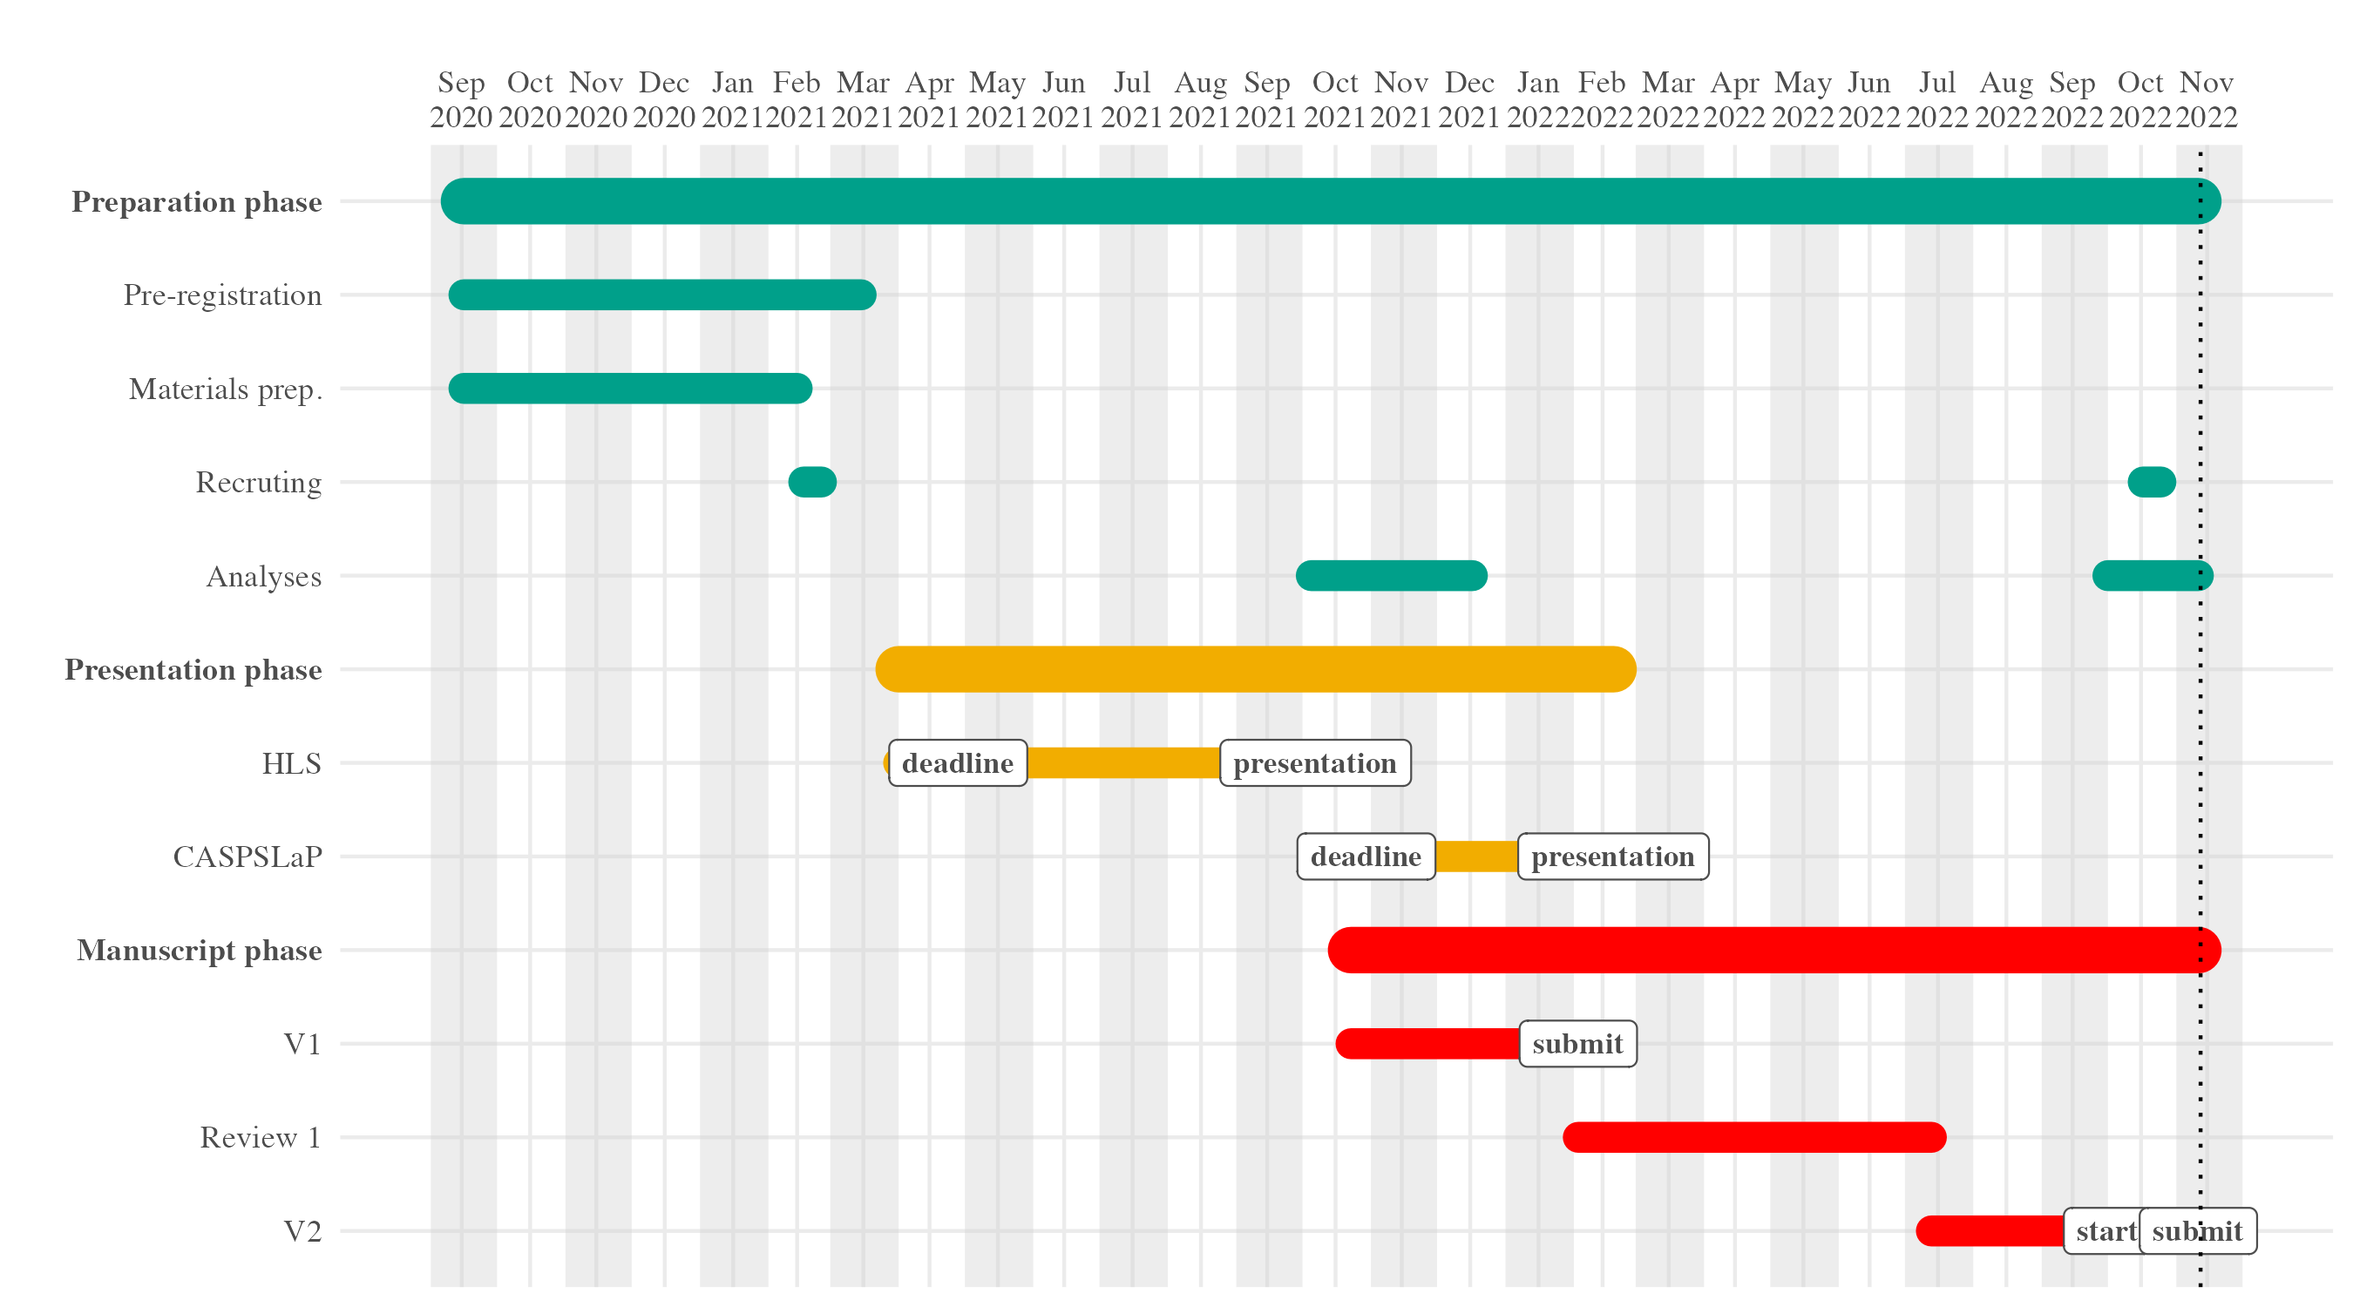
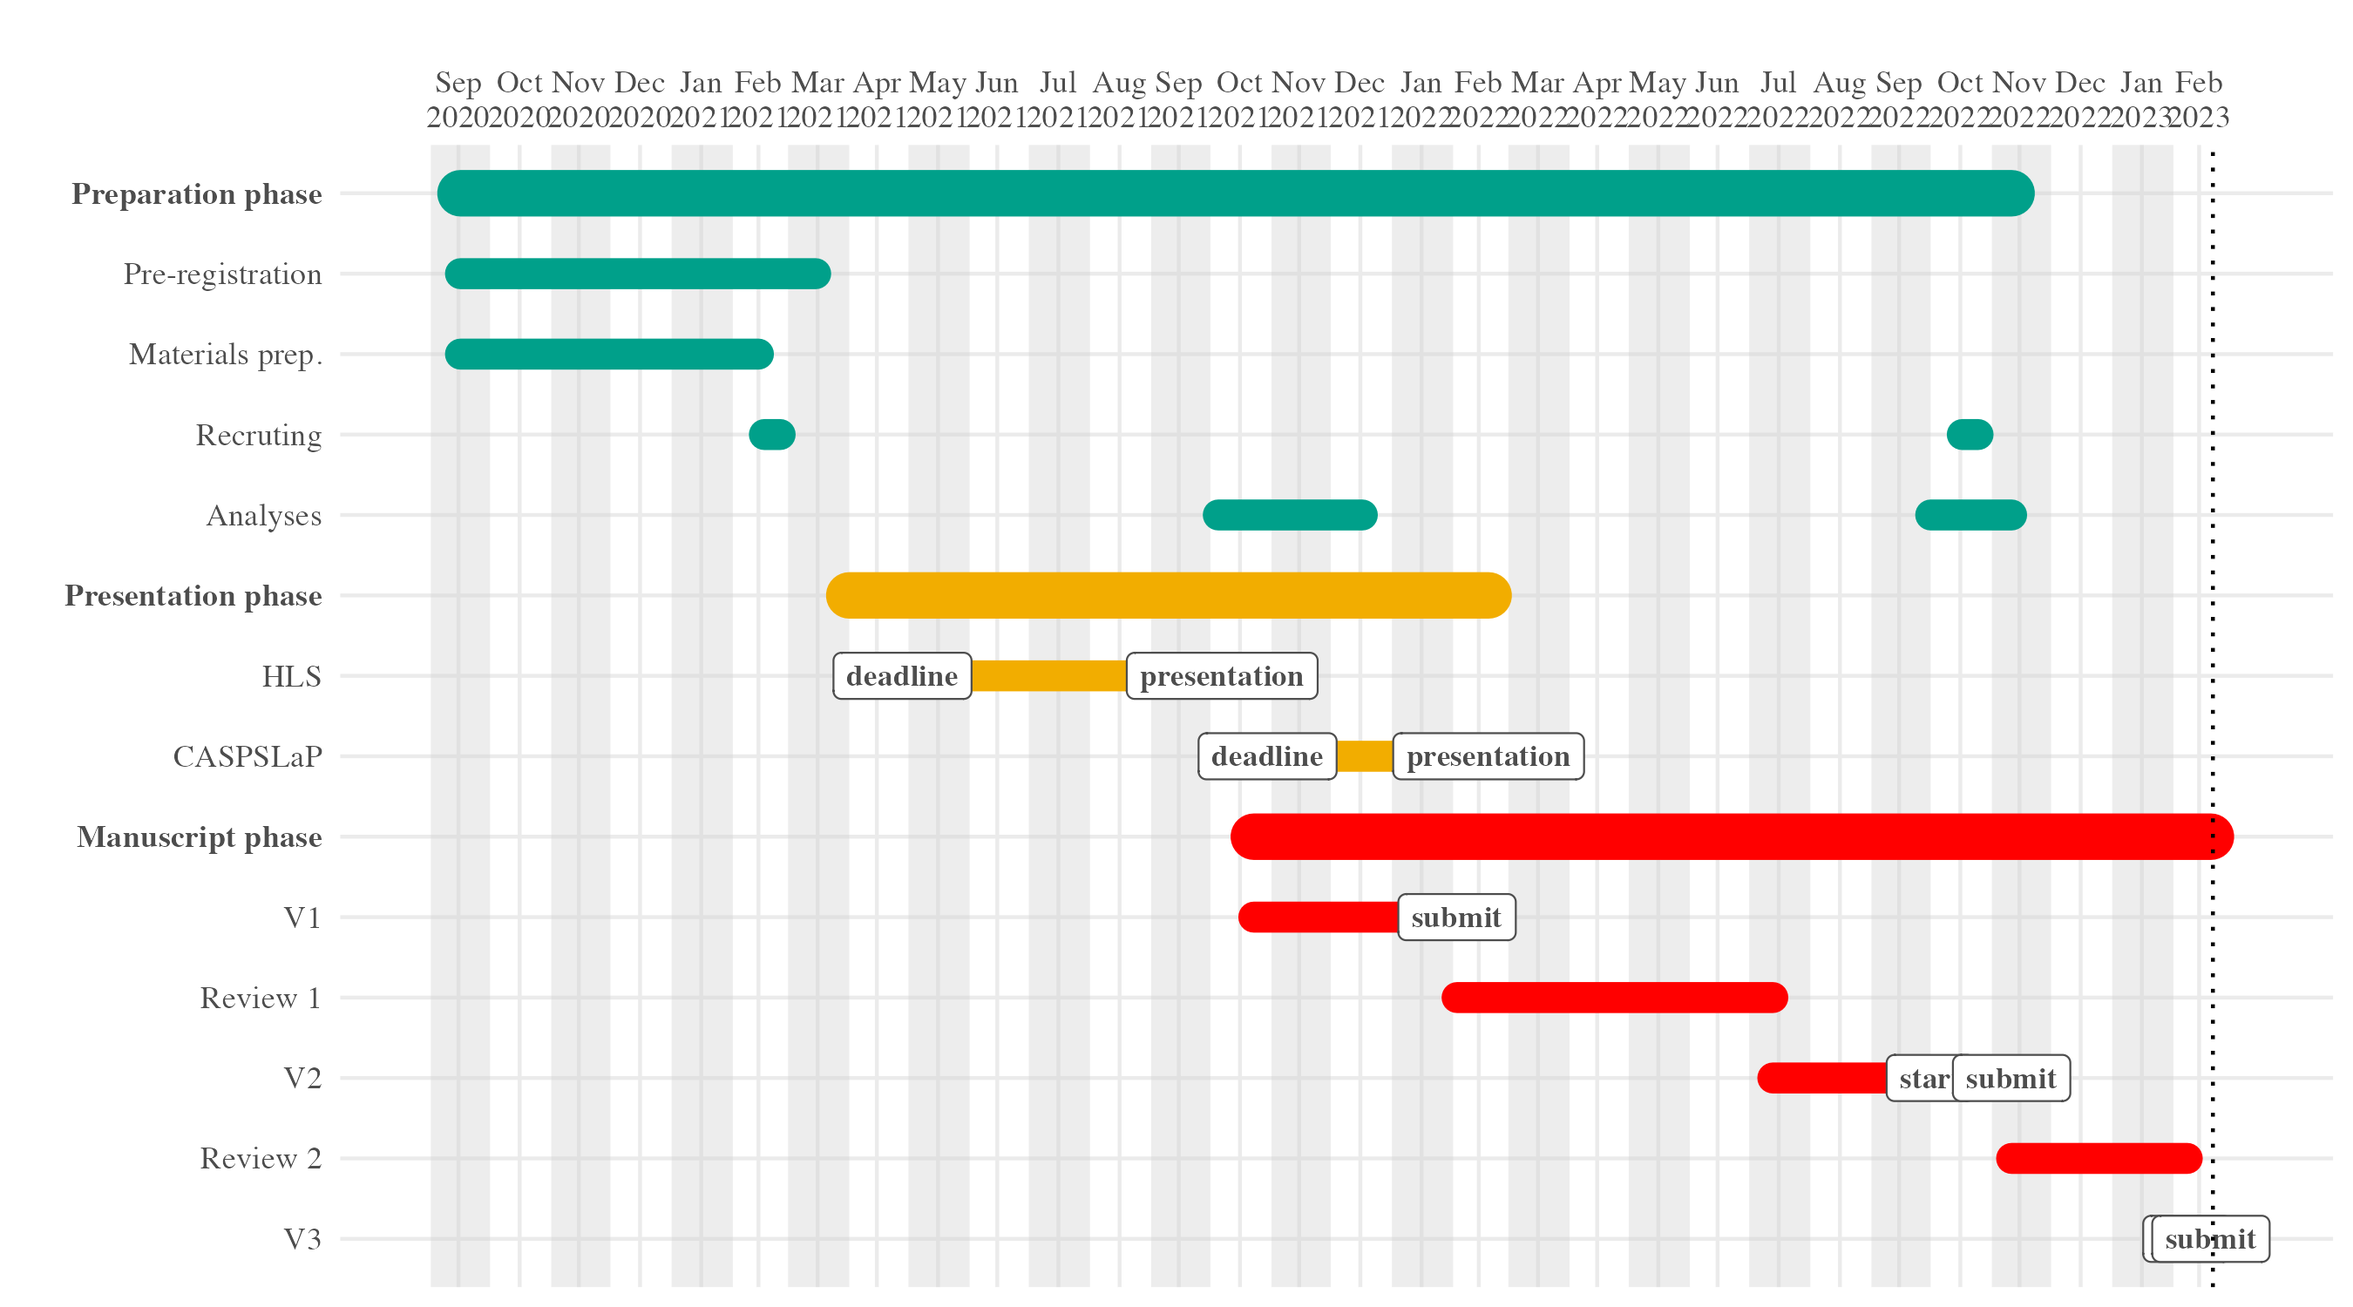
update readmes and project timeline

diff --git a/figs/README.md b/figs/README.md
@@ -5,11 +5,118 @@
     ├── README.Rmd
     ├── README.md
     ├── abstract
+    │   └── plot_abstract_hls.png
     ├── manuscript
+    │   ├── ddm_explanation.pdf
+    │   ├── ddm_explanation.png
+    │   ├── ddm_simulations.pdf
+    │   ├── ddm_simulations.png
+    │   ├── learner_accuracy_3way.pdf
+    │   ├── learner_accuracy_3way.png
+    │   ├── learner_accuracy_forest_utterance_type.pdf
+    │   ├── learner_accuracy_forest_utterance_type.png
+    │   ├── learner_accuracy_lt_eq_by_utterance_type.pdf
+    │   ├── learner_accuracy_lt_eq_by_utterance_type.png
+    │   ├── learner_accuracy_rt_by_speaker_variety.pdf
+    │   ├── learner_accuracy_rt_by_speaker_variety.png
+    │   ├── learner_dp_utterance_variety.pdf
+    │   ├── learner_dp_utterance_variety.png
+    │   ├── learner_native_accuracy.pdf
+    │   ├── learner_native_accuracy.png
+    │   ├── learner_native_caribbean_accuracy.pdf
+    │   ├── learner_native_caribbean_accuracy.png
+    │   ├── learner_variety_familiarity.pdf
+    │   ├── learner_variety_familiarity.png
+    │   ├── mem_bs_dr_estimates.pdf
+    │   ├── mem_bs_dr_estimates.png
+    │   ├── native_variety_matched_accuracy.pdf
+    │   ├── native_variety_matched_accuracy.png
+    │   ├── sm_random_speaker_check.pdf
+    │   ├── sm_random_speaker_check.png
+    │   ├── sm_speech_rate.pdf
+    │   ├── sm_speech_rate.png
+    │   ├── stimuli_pitch_contours.pdf
+    │   └── stimuli_pitch_contours.png
     ├── poster
+    │   ├── learner_accuracy_by_lextale.pdf
+    │   ├── learner_accuracy_by_speaker_variety.pdf
+    │   ├── learner_accuracy_by_st_eq.pdf
+    │   └── learner_accuracy_by_utterance_type.pdf
     ├── project_contributors.pdf
     ├── project_contributors.png
     ├── project_timeline.pdf
     ├── project_timeline.png
     ├── slides
+    │   ├── ddm_simulations0.png
+    │   ├── ddm_simulations1.png
+    │   ├── ddm_simulations2.png
+    │   ├── ddm_simulations3.png
+    │   ├── ddm_simulations4.png
+    │   ├── empathy_combine_1.png
+    │   ├── empathy_combine_2.png
+    │   ├── empathy_utterance_type_combine.png
+    │   ├── learner_accuracy_3way1.png
+    │   ├── learner_accuracy_3way2.png
+    │   ├── learner_accuracy_by_speaker_variety.png
+    │   ├── learner_accuracy_by_utterance_type.png
+    │   ├── learner_accuracy_lt_eq_by_utterance_type1.png
+    │   ├── learner_accuracy_lt_eq_by_utterance_type2.png
+    │   ├── learner_accuracy_rt_by_speaker_variety1.png
+    │   ├── learner_accuracy_rt_by_speaker_variety2.png
+    │   ├── lextale_combine_1.png
+    │   ├── lextale_combine_2.png
+    │   ├── lextale_utterance_type_combine.png
+    │   ├── lt_eq_3way_ce.png
+    │   ├── lt_eq_3way_ce_1.png
+    │   ├── mem_bs_dr_estimates.png
+    │   ├── random_speaker_check.png
+    │   └── speech_rate.png
     └── stimuli
+        ├── andalusian_match_declarative-broad-focus_Ana-lleva-el-abrigo.png
+        ├── andalusian_match_declarative-narrow-focus_Ana-lleva-el-abrigo.png
+        ├── andalusian_match_interrogative-partial-wh_Cuando-lleva-el-abrigo.png
+        ├── andalusian_match_interrogative-total-yn_Ana-lleva-el-abrigo.png
+        ├── argentine_match_declarative-broad-focus_Ana-lleva-el-abrigo.png
+        ├── argentine_match_declarative-narrow-focus_Ana-lleva-el-abrigo.png
+        ├── argentine_match_interrogative-partial-wh_Cuando-lleva-el-abrigo.png
+        ├── argentine_match_interrogative-total-yn_Ana-lleva-el-abrigo.png
+        ├── castilian_match_declarative-broad-focus_Ana-lleva-el-abrigo.png
+        ├── castilian_match_declarative-narrow-focus_Ana-lleva-el-abrigo.png
+        ├── castilian_match_interrogative-partial-wh_Cuando-lleva-el-abrigo.png
+        ├── castilian_match_interrogative-total-yn_Ana-lleva-el-abrigo.png
+        ├── chilean_match_declarative-broad-focus_Ana-lleva-el-abrigo.png
+        ├── chilean_match_declarative-narrow-focus_Ana-lleva-el-abrigo.png
+        ├── chilean_match_interrogative-partial-wh_Cuando-lleva-el-abrigo.png
+        ├── chilean_match_interrogative-total-yn_Ana-lleva-el-abrigo.png
+        ├── cuban_match_declarative-broad-focus_Ana-lleva-el-abrigo.png
+        ├── cuban_match_declarative-narrow-focus_Ana-lleva-el-abrigo.png
+        ├── cuban_match_interrogative-partial-wh_Cuando-lleva-el-abrigo.png
+        ├── cuban_match_interrogative-total-yn_Ana-lleva-el-abrigo.png
+        ├── mexican_match_declarative-broad-focus_Ana-lleva-el-abrigo.png
+        ├── mexican_match_declarative-narrow-focus_Ana-lleva-el-abrigo.png
+        ├── mexican_match_interrogative-partial-wh_Cuando-lleva-el-abrigo.png
+        ├── mexican_match_interrogative-total-yn_Ana-lleva-el-abrigo.png
+        ├── peruvian_match_declarative-broad-focus_Ana-lleva-el-abrigo.png
+        ├── peruvian_match_declarative-narrow-focus_Ana-lleva-el-abrigo.png
+        ├── peruvian_match_interrogative-partial-wh_Cuando-lleva-el-abrigo.png
+        ├── peruvian_match_interrogative-total-yn_Ana-lleva-el-abrigo.png
+        ├── puertorican_match_declarative-broad-focus_Ana-lleva-el-abrigo.png
+        ├── puertorican_match_declarative-narrow-focus_Ana-lleva-el-abrigo.png
+        ├── puertorican_match_interrogative-partial-wh_Cuando-lleva-el-abrigo.png
+        ├── puertorican_match_interrogative-total-yn_Ana-lleva-el-abrigo.png
+        ├── spectrogram_andalusian.pdf
+        ├── spectrogram_andalusian.png
+        ├── spectrogram_argentine.pdf
+        ├── spectrogram_argentine.png
+        ├── spectrogram_castilian.pdf
+        ├── spectrogram_castilian.png
+        ├── spectrogram_chilean.pdf
+        ├── spectrogram_chilean.png
+        ├── spectrogram_cuban.pdf
+        ├── spectrogram_cuban.png
+        ├── spectrogram_mexican.pdf
+        ├── spectrogram_mexican.png
+        ├── spectrogram_peruvian.pdf
+        ├── spectrogram_peruvian.png
+        ├── spectrogram_puertorican.pdf
+        └── spectrogram_puertorican.png

diff --git a/docs/manuscript/README.md b/docs/manuscript/README.md
@@ -1,2 +1,95 @@
 
 # manuscript
+
+    .
+    ├── README.Rmd
+    ├── README.md
+    ├── main.Rmd
+    ├── main.docx
+    ├── pre_print
+    │   ├── pre_print_20220203.docx
+    │   ├── pre_print_20220203.pdf
+    │   ├── pre_print_20221111.docx
+    │   ├── pre_print_20221111.pdf
+    │   ├── pre_print_20230220.docx
+    │   └── pre_print_20230220.pdf
+    ├── sections
+    │   ├── 01_intro.Rmd
+    │   ├── 02_method.Rmd
+    │   ├── 03_results.Rmd
+    │   ├── 04_discussion.Rmd
+    │   └── 05_supplementary_material.Rmd
+    └── submissions
+        ├── osf_zip
+        │   ├── empathy_intonation_perc_OSF_20220203.zip
+        │   ├── empathy_intonation_perc_OSF_20221111.zip
+        │   └── empathy_intonation_perc_OSF_20230220.zip
+        ├── proofs
+        │   ├── 20220203.pdf
+        │   ├── 20221111.pdf
+        │   └── 20230220.pdf
+        ├── r1_20220915
+        │   ├── 0_editor_decision.Rmd
+        │   ├── main.Rmd
+        │   ├── main.pdf
+        │   ├── main.tex
+        │   ├── reviewer1.Rmd
+        │   ├── reviewer2.Rmd
+        │   └── reviewer3.Rmd
+        ├── r2_20230208
+        │   ├── 0_editor_decision.Rmd
+        │   ├── main.Rmd
+        │   ├── main.pdf
+        │   ├── main.tex
+        │   ├── reviewer1.Rmd
+        │   ├── reviewer2.Rmd
+        │   ├── reviewer2.pdf
+        │   └── reviewer3.Rmd
+        ├── v1_20220203
+        │   ├── cover_letter.txt
+        │   ├── ddm_explanation.pdf
+        │   ├── ddm_simulations.pdf
+        │   ├── learner_accuracy_3way.pdf
+        │   ├── learner_accuracy_forest_utterance_type.pdf
+        │   ├── learner_accuracy_lt_eq_by_utterance_type.pdf
+        │   ├── learner_accuracy_rt_by_speaker_variety.pdf
+        │   ├── learner_dp_utterance_variety.pdf
+        │   ├── main.docx
+        │   ├── mem_bs_dr_estimates.pdf
+        │   ├── sm_random_speaker_check.pdf
+        │   ├── sm_speech_rate.pdf
+        │   ├── supplementary_materials.docx
+        │   └── title_page.docx
+        ├── v2_20221111
+        │   ├── cover_letter.txt
+        │   ├── ddm_explanation.pdf
+        │   ├── ddm_simulations.pdf
+        │   ├── learner_accuracy_3way.pdf
+        │   ├── learner_accuracy_forest_utterance_type.pdf
+        │   ├── learner_accuracy_lt_eq_by_utterance_type.pdf
+        │   ├── learner_accuracy_rt_by_speaker_variety.pdf
+        │   ├── learner_variety_familiarity.pdf
+        │   ├── main.docx
+        │   ├── mem_bs_dr_estimates.pdf
+        │   ├── response_letter.pdf
+        │   ├── supplementary_materials1.docx
+        │   ├── supplementary_materials2.docx
+        │   ├── supplementary_materials3.docx
+        │   ├── supplementary_materials4.docx
+        │   ├── supplementary_materials5.docx
+        │   └── title_page.docx
+        └── v3_20230219
+            ├── cover_letter.txt
+            ├── ddm_explanation.pdf
+            ├── ddm_simulations.pdf
+            ├── learner_accuracy_3way.pdf
+            ├── learner_accuracy_forest_utterance_type.pdf
+            ├── learner_accuracy_lt_eq_by_utterance_type.pdf
+            ├── learner_accuracy_rt_by_speaker_variety.pdf
+            ├── learner_variety_familiarity.pdf
+            ├── main.docx
+            ├── mem_bs_dr_estimates.pdf
+            ├── response_letter.pdf
+            ├── supplementary_materials.pdf
+            ├── title_page.docx
+            └── ~$pplementary_materials.docx

diff --git a/data/README.md b/data/README.md
@@ -50,19 +50,19 @@ This is the data directory containing raw and tidy data.
 The `speech_rate` files (raw and tidy) contain acoustic measurements of
 the experimental items. The remaining tidy csv’s are the following:
 
--   **complete_2afc_tidy.csv**: combined learners and natives 2afc data
--   **ddm_estimates.csv**: Parameter estimates from the drift diffusion
-    models
--   **ddm_sims.csv**: Simulations (n = 1000) pero condition for
-    understanding drift rate and boundary separation estimates
--   **learners_2afc_tidy.csv**: learners 2afc data
--   **learners_all_tasks_tidy.csv**: learners data from all tasks
--   **learners_eq_tidy.csv**: learners empathy quotient data
--   **learners_lextale_tidy.csv**: learners LexTALE data
--   **natives_2afc_tidy.csv**: natives 2afc data
--   **participants_removed.list.Rds**: List of participants whose data
-    was excluded
--   **participants_returned_vector.Rds**: Vector of participant IDs that
-    were returned because they timed out
--   **speech_rate_tidy.csv**: Native speaker stimuli speech rate info
--   **stimuli_acoustics_tidy.csv**: Pitch data from acoustic stimuli
+- **complete_2afc_tidy.csv**: combined learners and natives 2afc data
+- **ddm_estimates.csv**: Parameter estimates from the drift diffusion
+  models
+- **ddm_sims.csv**: Simulations (n = 1000) pero condition for
+  understanding drift rate and boundary separation estimates
+- **learners_2afc_tidy.csv**: learners 2afc data
+- **learners_all_tasks_tidy.csv**: learners data from all tasks
+- **learners_eq_tidy.csv**: learners empathy quotient data
+- **learners_lextale_tidy.csv**: learners LexTALE data
+- **natives_2afc_tidy.csv**: natives 2afc data
+- **participants_removed.list.Rds**: List of participants whose data was
+  excluded
+- **participants_returned_vector.Rds**: Vector of participant IDs that
+  were returned because they timed out
+- **speech_rate_tidy.csv**: Native speaker stimuli speech rate info
+- **stimuli_acoustics_tidy.csv**: Pitch data from acoustic stimuli

diff --git a/README.md b/README.md
@@ -10,11 +10,13 @@ in questions and statements in L2 Spanish.
 
 ## Project timeline
 
--   Project start: 2020-09-16
--   Initial submission: 2022-02-03
--   Decision: 2022-07-13, revise and resubmit, major revisions
--   Begin r1 revisions: 2022-10-01
--   Submit V2: 2022-11-11
+- Project start: 2020-09-16
+- Initial submission: 2022-02-03
+- Decision: 2022-07-13, revise and resubmit, major revisions
+- Begin r1 revisions: 2022-10-01
+- Submit V2: 2022-11-11
+- Begin r2 revisions: 2023-02-08
+- Submit V3: 2023-02-20
 
 ![](./figs/project_timeline.png)
 
@@ -69,7 +71,8 @@ in questions and statements in L2 Spanish.
     │   ├── learner_variety_match_response.rds
     │   ├── mem_boundary_separation.rds
     │   ├── mem_drift_rate.rds
-    │   └── native_stim_sr.rds
+    │   ├── native_stim_sr.rds
+    │   └── post_hoc_eda_natives_tune.rds
     ├── scripts
     │   ├── praat
     │   └── r
@@ -77,6 +80,7 @@ in questions and statements in L2 Spanish.
         ├── ddm_bs_dr.csv
         ├── dp_utterance_variety.csv
         ├── learner_native_accuracy.csv
+        ├── learner_native_risefall_accuracy.csv
         ├── learner_response_01.csv
         ├── learner_variety_match_response_cond_effects.csv
         ├── learner_variety_match_response_model_summary.csv

diff --git a/exp/README.md b/exp/README.md
@@ -6,6 +6,10 @@ and `empathy_intonation_perc_sp`, are git sub-modules hosted on gitlab.
 The directory `text_stim_for_audio` is the script used to present the
 experimental items to the native speakers during recording.
 
+<!--
+https://github.com/RAP-group/empathy_intonation_perc/issues/10
+-->
+
     .
     ├── README.Rmd
     ├── README.md
@@ -15,6 +19,7 @@ experimental items to the native speakers during recording.
     │   ├── empathy_intonation_perc.py
     │   ├── empathy_intonation_perc_lastrun.py
     │   ├── instructions
+    │   ├── readme.md
     │   ├── stim
     │   └── trials
     ├── empathy_intonation_perc_sp

diff --git a/scripts/README.md b/scripts/README.md
@@ -30,6 +30,7 @@ Directory containing Praat and R scripts.
         ├── 12_plots.R
         ├── 13_small_data.R
         ├── 14_stimuli_acoustics.R
+        ├── 15_post_hoc_eda.R
         ├── 99_build_2afc_stimuli.R
         ├── 99_build_2afc_trials.R
         ├── 99_build_empathy_quotient_trials.R

diff --git a/models/README.md b/models/README.md
@@ -14,4 +14,5 @@
     ├── learner_variety_match_response.rds
     ├── mem_boundary_separation.rds
     ├── mem_drift_rate.rds
-    └── native_stim_sr.rds
+    ├── native_stim_sr.rds
+    └── post_hoc_eda_natives_tune.rds
